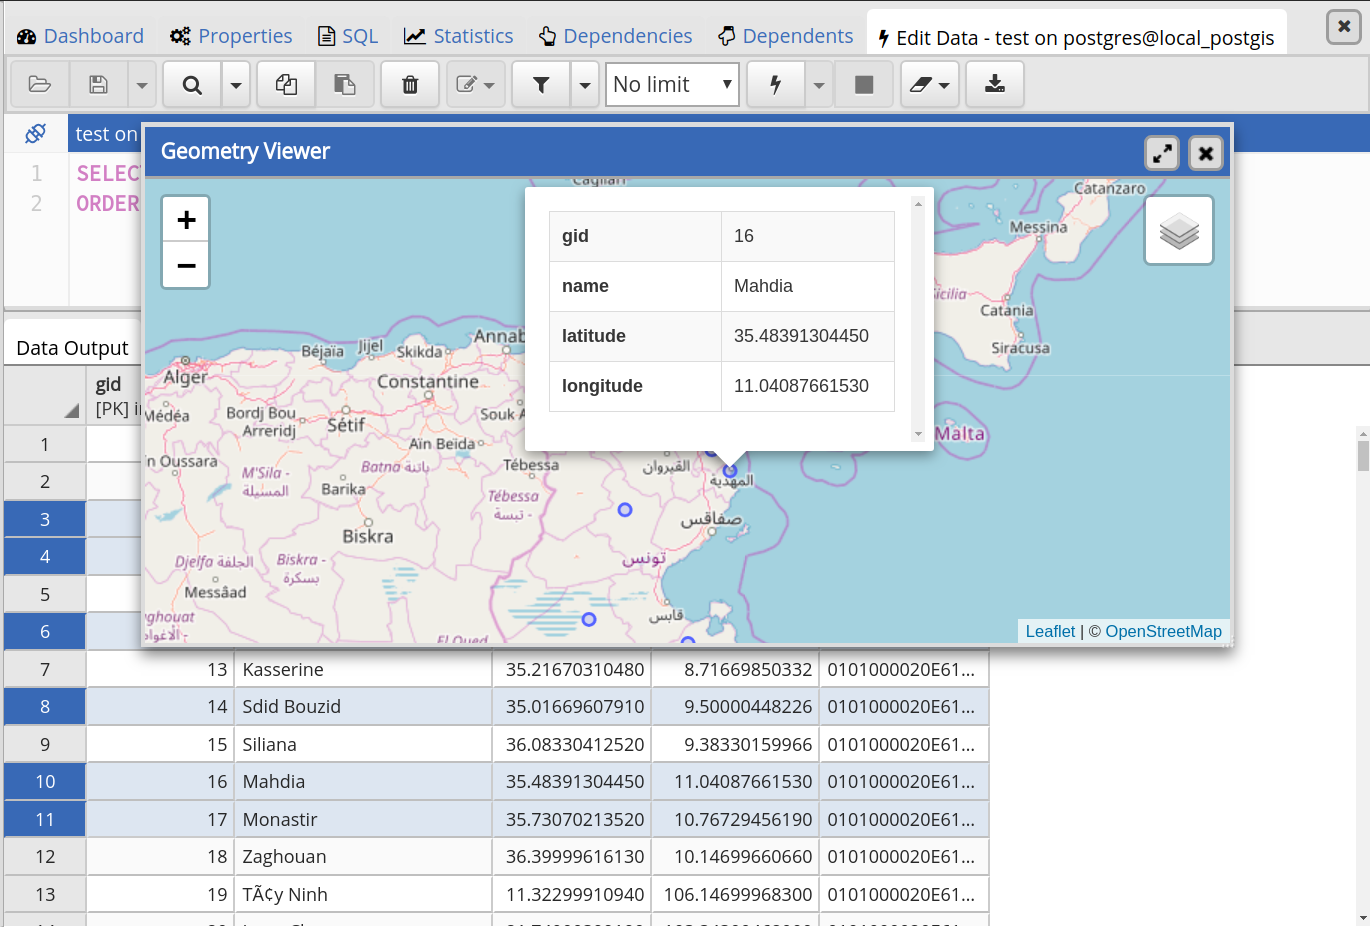
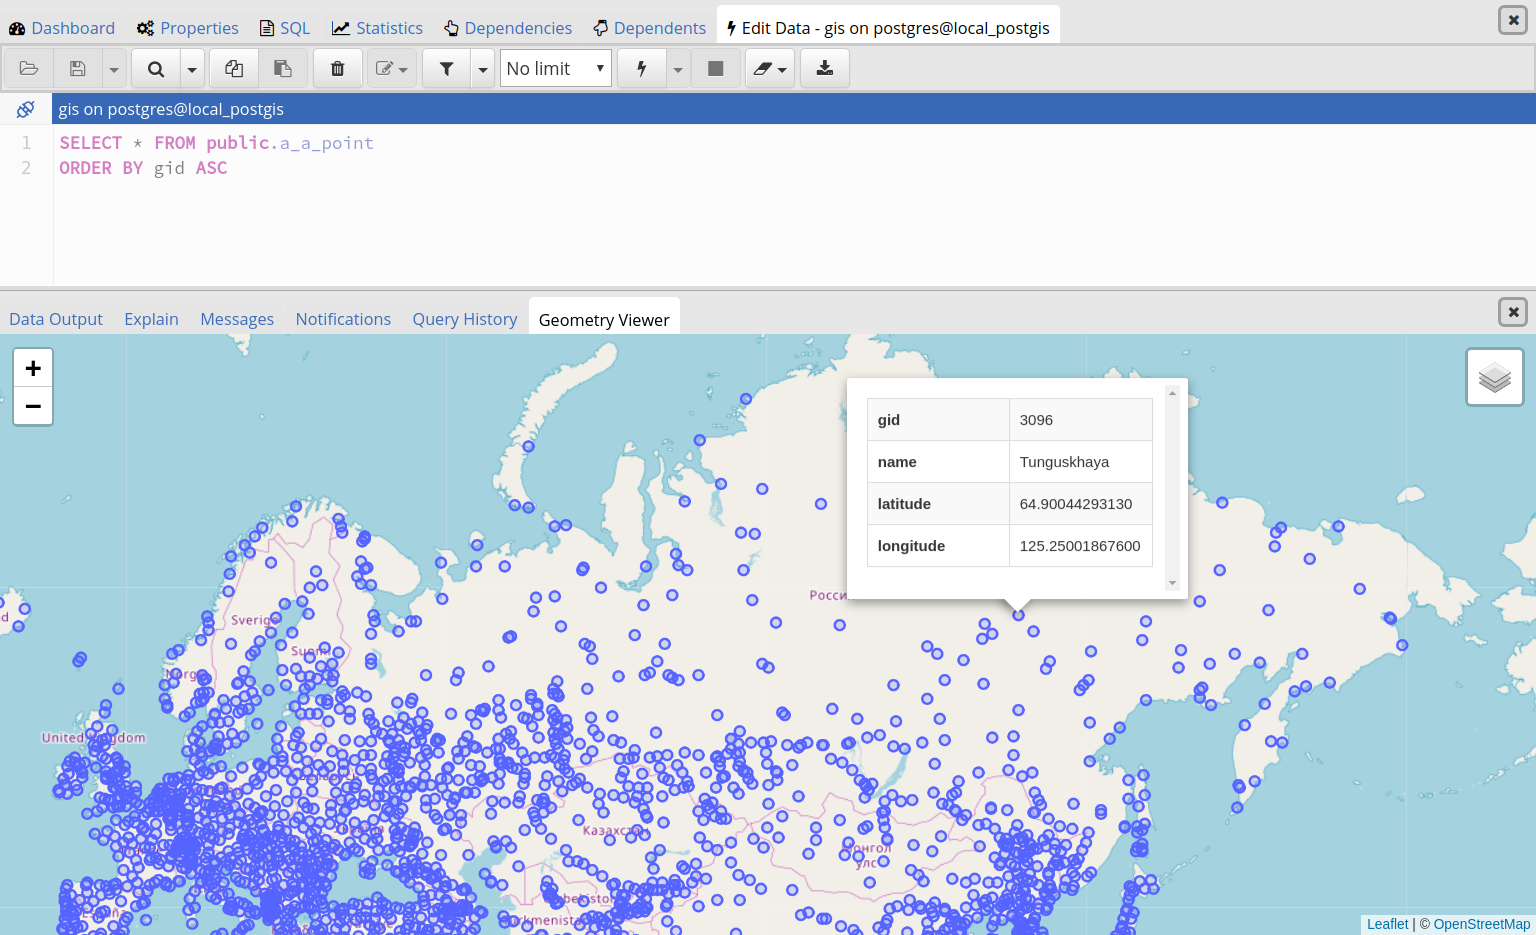
update docs

diff --git a/docs/en_US/editgrid.rst b/docs/en_US/editgrid.rst
@@ -97,12 +97,12 @@ To commit the changes to the server, select the *Save* toolbar button.  Modifica
 
 **Geometry Data Viewer**
 
-If with PostGIS installed, you can view GIS objects in a map by selecting row(s) and clicking the 'View Geometry' button in the table:
+If with PostGIS installed, you can view GIS objects in a map by selecting row(s) and clicking the 'View Geometry' button in the table. If no rows are selected, it will load and render all the rows:
 
 .. image:: images/geometry_viewer.png
     :alt: Geometry Viewer Button
 
-You can also view the properties of the geometries directly in the geometry viewer by clicking the specific geometry:
+You can adjust the layout by dragging the title of the panel. To view the properties of the geometries directly in map, just click the specific geometry:
 
 .. image:: images/geometry_viewer_property_table.png
     :alt: Geometry Viewer Property Table
